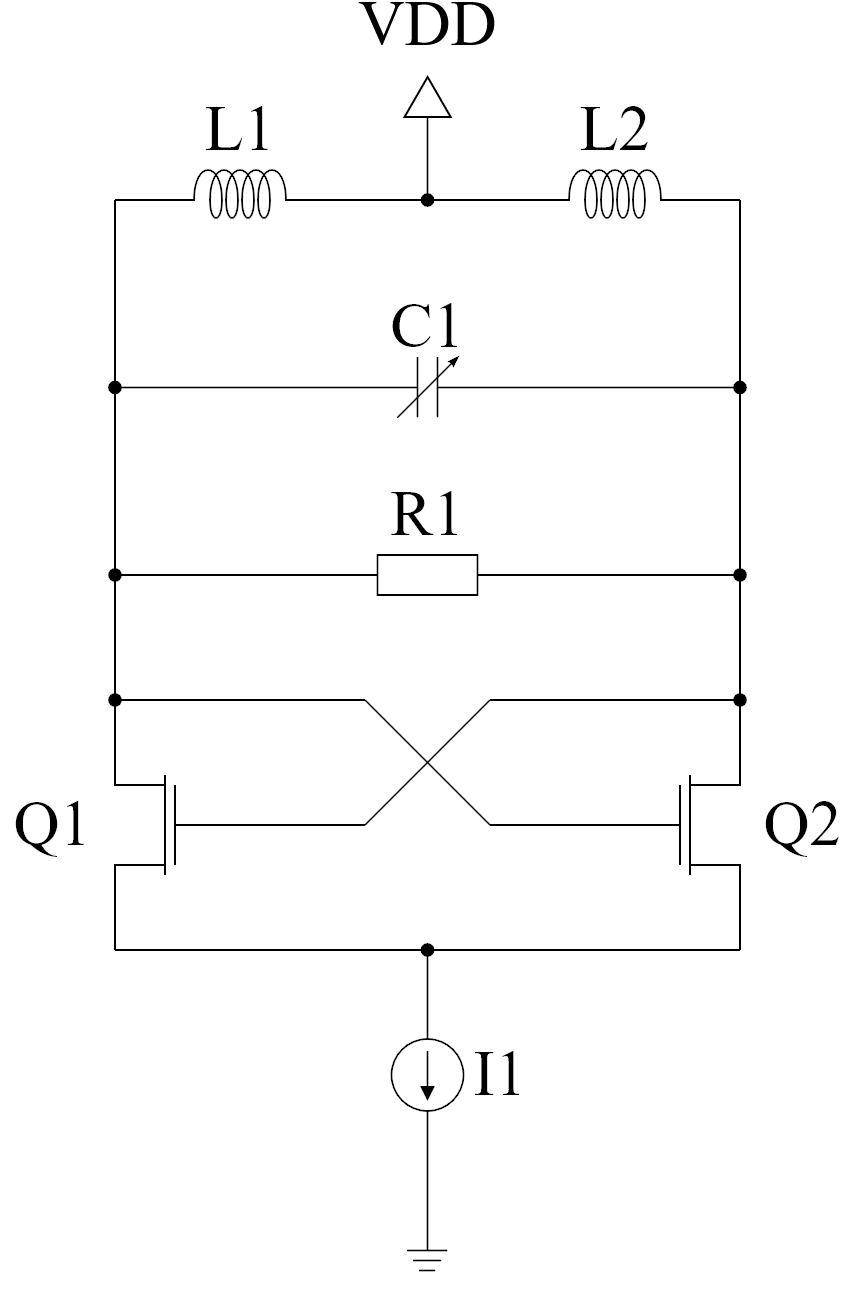
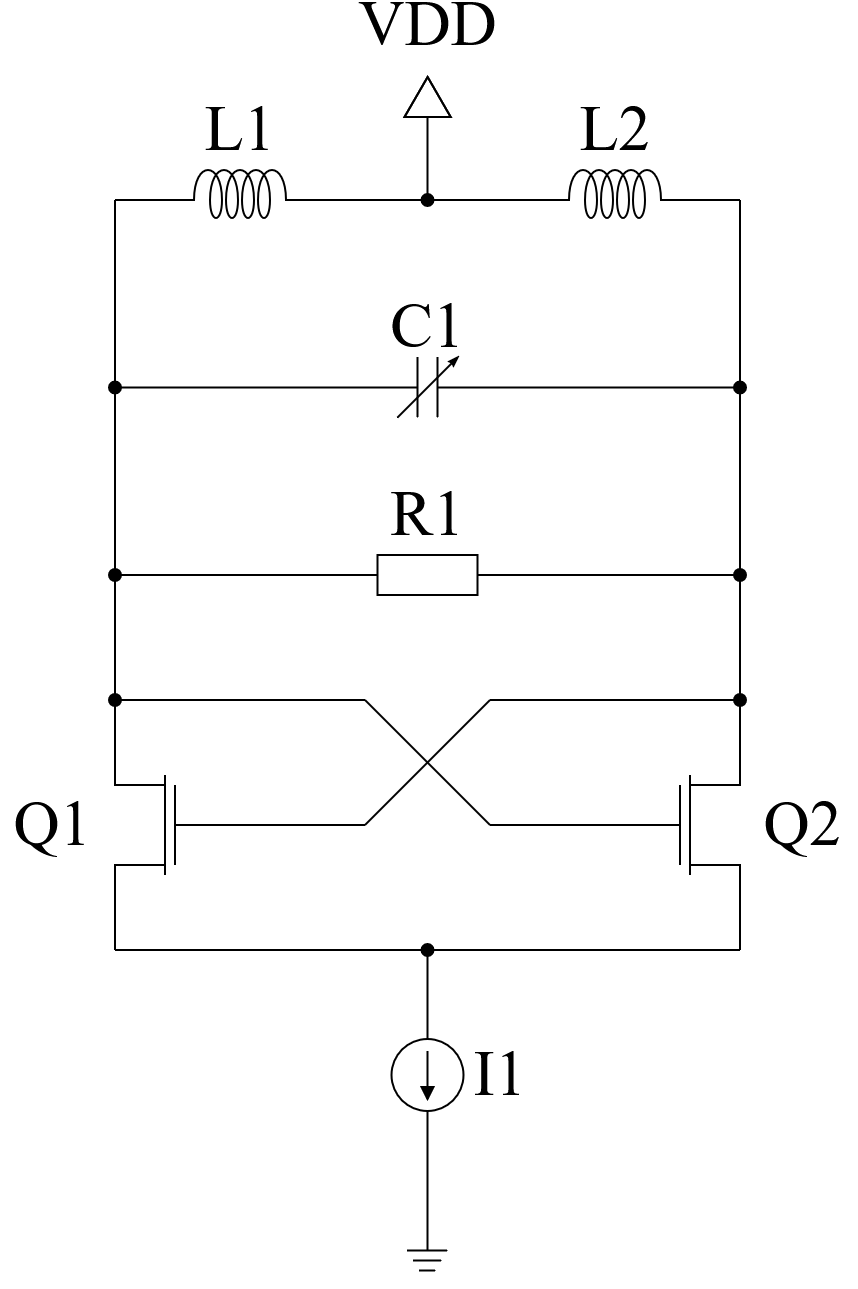
README

diff --git a/README.md b/README.md
@@ -1,4 +1,5 @@
-09.07.2026
+
[phone redacted]
 
 <div align="center">
 
@@ -45,8 +46,8 @@ Mirco Ick
 
 **Dateiübersicht**
 
-[KiCad-Dateien](kicad/) · [Simulationsdaten](sim/) ·
-[Analyse-Code](code/) · [Datenblätter](datasheets/)
+[KiCad-Dateien](kicad/) · [Simulationsdaten](sim/) · [Python
+Code](code/) · [Datenblätter](datasheets/)
 
 </div>
 
@@ -234,10 +235,7 @@ mit Änderung des OPV’s (LT7171) auf die gewünschten $5,5~\text{MHz}$,
 umgesetzt wurde, konnte sich um den geforderten Frequenzhub von
 $\Delta f=1~\text{MHz}$ bei einer Steuerspannungsänderung von
 $U_{str}=\pm 0,5~\text{V}$ gemacht werden. Für den ersten Entwurf wurden
-nun Varaktoren parallel zu den beiden Kondensatoren $C$ geschaltet. Ein
-erster Versuch ist der **?@fig-wienvarak** zu entnehemen.
-
-**Abbildung mit Wien-Robinson-Oszillator mit Frequenzhub**
+nun Varaktoren parallel zu den beiden Kondensatoren $C$ geschaltet.
 
 Nach umsetzen dieser Schaltung haben sich jedoch zwei Probleme
 kristallisiert. Zum einen kamen in den verschiedenen Simulationen (KiCAD
@@ -320,7 +318,92 @@ steuerbare Amplitudenregelung anfangs bessere Ergebnisse in der
 Simulation mit NGSpice und LTSpice bezüglich der linearität der
 Ausgangsfrequenz bessere Ergebnisse lieferte.
 
+Eine Simulation der Schaltung ([KiCAD](kicad/Wien-VCO/)) mit dem
+[sim_plot.py](code/sim_plot.py) ist der
+<a href="#fig-sim-wien-vco" class="quarto-xref">Abbildung 5</a> zu
+entnehmen. Es wurden die folgenden Werte gewählt:
+
+<div class="columns" style="display: flex; align-items: center;">
+
+<div class="column" width="45%">
+
+| Bauteil              | Typ / Wert                      |
+|:---------------------|:--------------------------------|
+| **$V_{\text{str}}$** | $0 \dots 1~\text{V}$ (variabel) |
+| **VCC+**             | $+10~\text{V}$                  |
+| **VCC-**             | $-10~\text{V}$                  |
+| **U1**               | MAX4104                         |
+| **U2**               | TL082                           |
+| **J1**               | J113                            |
+| **D1**               | 1N6263 (Schottky)               |
+| **D2-D5**            | BB535/SIE (Kapazitätsdiode)     |
+
+</div>
+
+<div class="column" width="10%">
+
+<!-- Freiraum zwischen den Spalten -->
+
+</div>
+
+<div class="column" width="45%">
+
+| Bauteil   | Wert              |
+|:----------|:------------------|
+| **C1-C2** | $2{,}7~\text{pF}$ |
+| **C3**    | $2{,}0~\text{nF}$ |
+| **C4-C5** | $100~\text{nF}$   |
+
+<div style="margin-top: 1.5em;">
+
+</div>
+
+| Bauteil    | Wert                     |
+|:-----------|:-------------------------|
+| **R1-R2**  | $3{,}275~\text{k}\Omega$ |
+| **R3**     | $2{,}32~\text{k}\Omega$  |
+| **R4**     | $1{,}2~\text{k}\Omega$   |
+| **R5**     | $20~\text{k}\Omega$      |
+| **R6, R9** | $100~\text{k}\Omega$     |
+| **R7**     | $1{,}0~\text{k}\Omega$   |
+| **R8**     | $8{,}0~\text{k}\Omega$   |
+| **R10**    | $10~\text{k}\Omega$      |
+| **R11**    | $75~\text{k}\Omega$      |
+| **R12**    | $50~\text{k}\Omega$      |
+
+</div>
+
+</div>
+
+<div id="fig-sim-wien-vco">
+
+<img src=".\images/sim_wien_vco.png" style="width:100.0%" />
+
+Abbildung 5: Simulationsergebnis mit Python Auswertung
+
+</div>
+
 # Charakterisierung
+
+# Ordnerstruktur
+
+``` {text}
+.
+├── code/
+├── data/
+├── datasheets/
+├── images/
+├── kicad/
+│   ├── Archiv/
+        ├── VCO-Schwingkreis/
+│   ├── footprints/
+│   ├── spicelibs/
+│   └── Wien-VCO/
+├── report/
+├── sim/
+├── .gitignore
+└── README.md
+```
 
 # Literaturverzeichnis
 